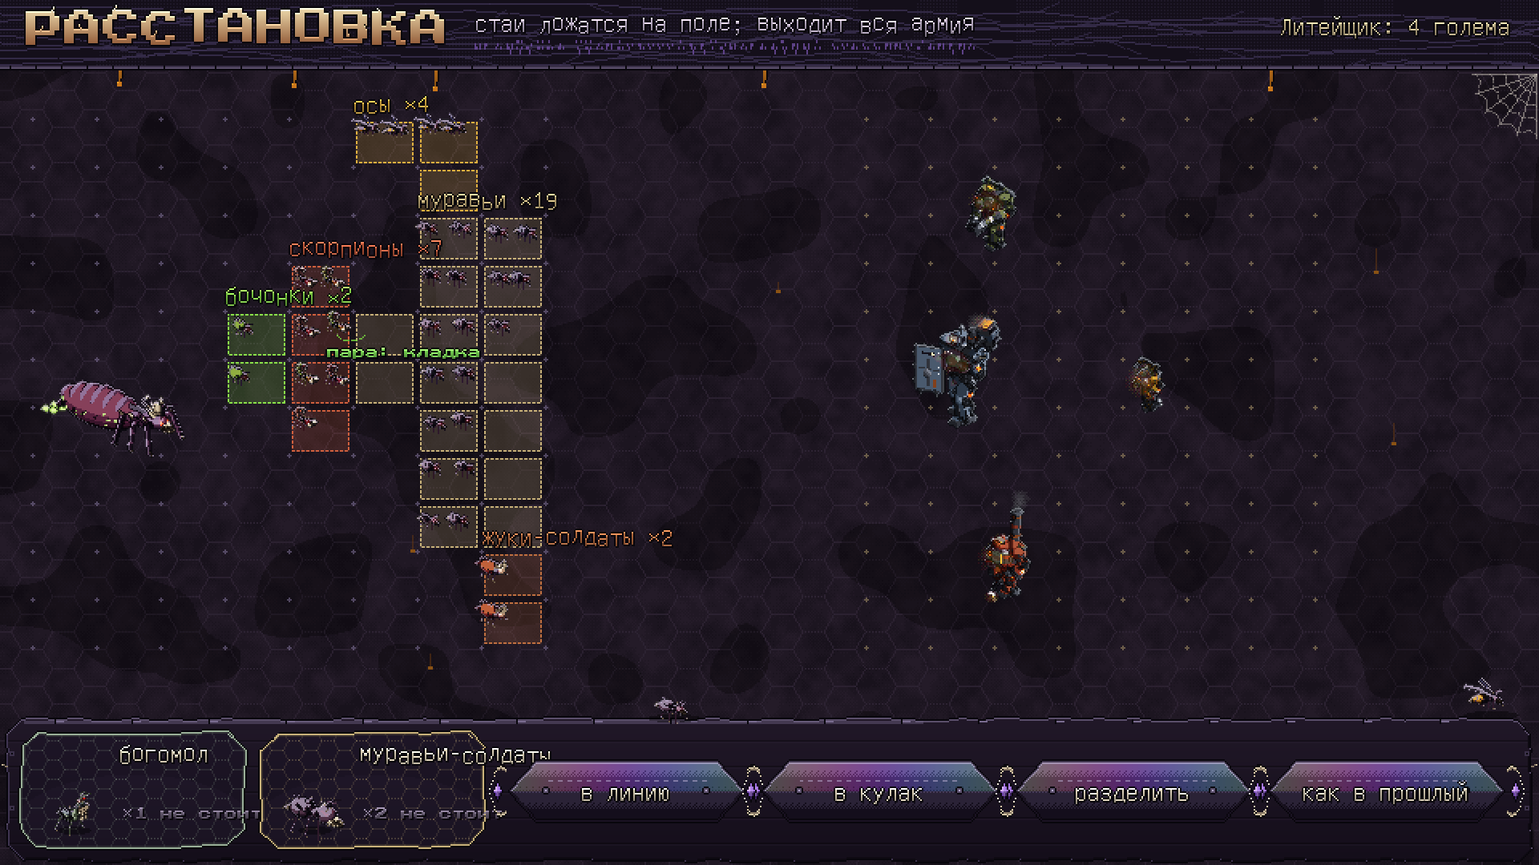
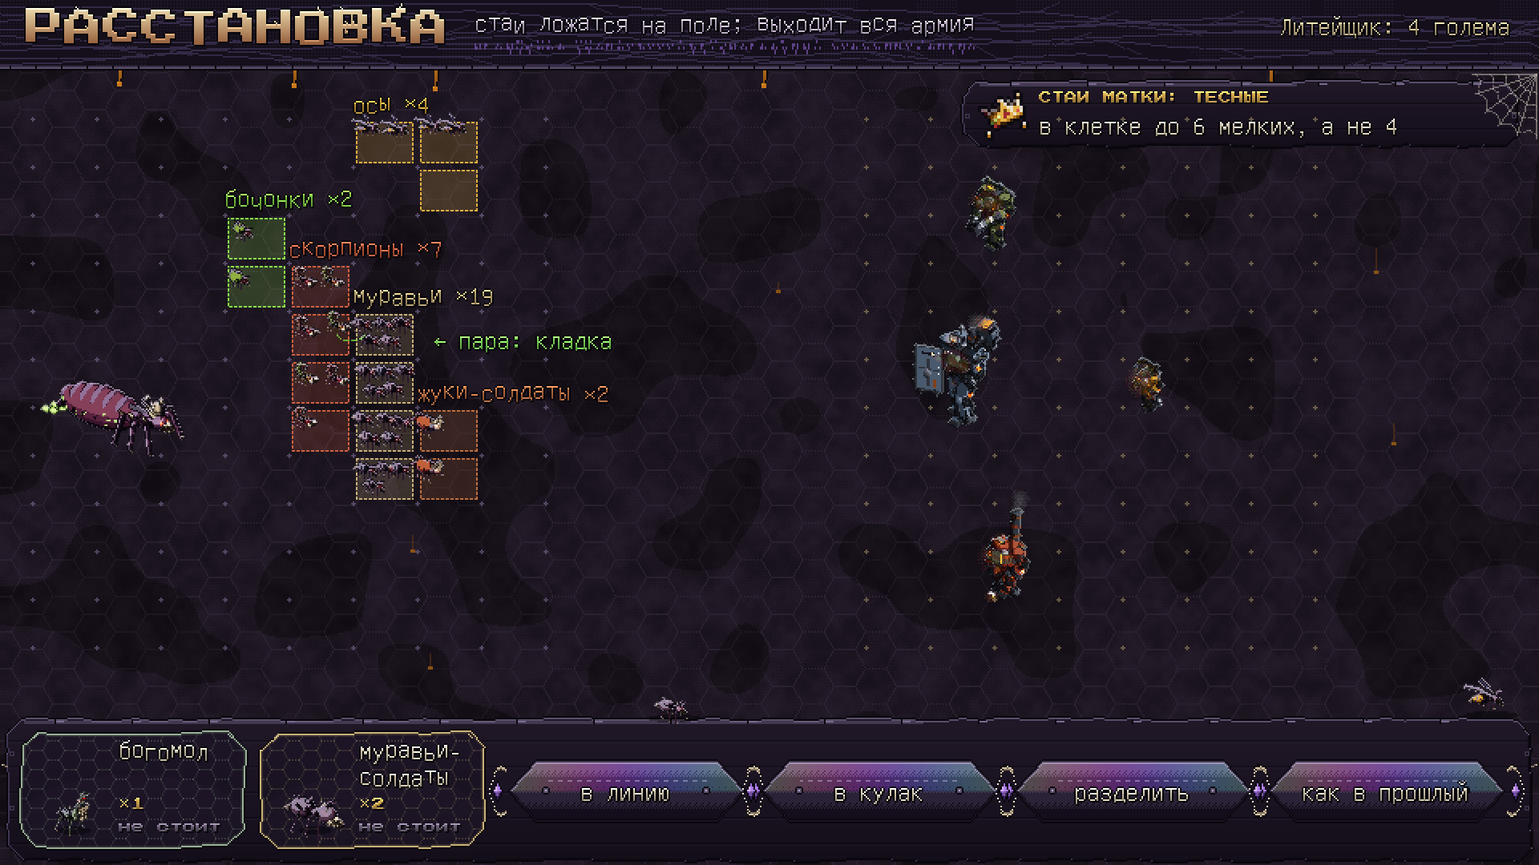
Рой: интерфейс боя, экран после боя, выбор лидера и развитие; тесные стаи Матки на расстановке
Claude-Session: https://claude.ai/code/session_01Bh6a99SKMjjKSinDnrtssC

diff --git a/tools/sprites/swarm_hud.py b/tools/sprites/swarm_hud.py
@@ -3,8 +3,11 @@ letters, the headings dripping and bristling, the swarm's own script under them)
 interface, silk and cobwebs, resin running off the plates, old engravings showing through.
 
     python3 tools/sprites/swarm_hud.py            -> out/brood.png, out/swarm_camp.png, out/swarm_evolution_screen.png,
-                                                     out/swarm_deploy.png, out/brood_finds.png, out/brood_pools.png
-    python3 tools/sprites/swarm_hud.py brood      -> one screen (brood, camp, evolution, deploy)
+                                                     out/swarm_deploy.png, out/brood_finds.png, out/brood_pools.png,
+                                                     out/swarm_flocks.png, out/swarm_battle_hud.png, out/swarm_aftermath.png,
+                                                     out/swarm_leader_pick.png, out/swarm_development_screen.png
+    python3 tools/sprites/swarm_hud.py brood      -> one screen (a key of SCREENS: brood, camp, evolution, deploy, finds,
+                                                     pools, flocks, battle, aftermath, leader, development)
 """
 import sys
 from functools import lru_cache
@@ -329,6 +332,10 @@ def deploy():
     UI.drips(sc, 60, 900, 44, "#b06818", n=5, seed=9)
     title(sc, "РАССТАНОВКА", "стаи ложатся на поле; выходит вся армия", seed=25)
     letters(sc, "Литейщик: 4 голема", 944, 8, "text", 16, col=(214, 196, 150), align="right")
+    UI.plate(sc, 600, 50, 948, 92)
+    icon(sc, "matka", 610, 56, 2)
+    letters(sc, "СТАИ МАТКИ: ТЕСНЫЕ", 648, 57, "title", 8, col=GOLD, outline=False)
+    letters(sc, "в клетке до 6 мелких, а не 4", 648, 70, "text", 16, col=INK)
     CW_, CH_, GX0, GY0 = SS.CW_, SS.CH_, SS.GX0, SS.GY0 + 4
     cols, rows = 21, 12
     for c in range(cols):
@@ -356,8 +363,12 @@ def deploy():
             for j in range(per):
                 if placed_n >= n:
                     break
-                x = GX0 + c * CW_ + 10 + (j % 2) * 18 + rnd.uniform(-3, 3)
-                y = GY0 + r * CH_ + 14 + (j // 2) * 10 + rnd.uniform(-2, 2)
+                if per > 4:                                         # a tight cell: three abreast
+                    x = GX0 + c * CW_ + 8 + (j % 3) * 12 + (j // 3) * 5 + rnd.uniform(-2, 2)
+                    y = GY0 + r * CH_ + 13 + (j // 3) * 11 + rnd.uniform(-1, 1)
+                else:
+                    x = GX0 + c * CW_ + 10 + (j % 2) * 18 + rnd.uniform(-3, 3)
+                    y = GY0 + r * CH_ + 14 + (j // 2) * 10 + rnd.uniform(-2, 2)
                 items.append((y, W.build(traits, rnd.uniform(-0.1, 0.1), "idle", soldier, k=SS.ZD, genes=W.genes_for(k_ * 50 + placed_n)), x))
                 placed_n += 1
     for (y, spr, x) in sorted(items, key=lambda t: t[0]):
@@ -376,15 +387,16 @@ def deploy():
         c = min(cells, key=lambda t: (t[1], t[0]))
         letters(sc, f"{name} ×{n}", GX0 + c[0] * CW_, GY0 + c[1] * CH_ - 18, "text", 16, col=tuple(int(v) for v in hexc(col)),
                 jitter=1, seed=k_)
-    letters(sc, "пара: кладка", GX0 + 4 * CW_ + 24, GY0 + 4 * CH_ + 22, "title", 8, col=(130, 230, 90))
+    letters(sc, "← пара: кладка", GX0 + 6 * CW_ + 10, GY0 + 4 * CH_ + 10, "text", 16, col=(130, 230, 90))
     UI.plate(sc, 4, HH - 92, WW - 4, HH - 2)
     for k_, (traits, soldier, name, n, cells, col, placed) in enumerate([fl for fl in SS.FLOCKS if not fl[6]]):
         x0 = 12 + k_ * 150
         UI.cell(sc, x0, HH - 84, x0 + 142, HH - 10, "normal", col=col)
         put(sc, W.build(traits, 0.0, "idle", soldier, k=1.1, genes=W.genes_for(90 + k_)), x0 + 34, HH - 22, 10)
-        for j, ln in enumerate(wrap(name, 76)):
-            letters(sc, ln, x0 + 62, HH - 78 + j * 17, "text", 16, col=INK, jitter=1, seed=k_ + j)
-        letters(sc, f"×{n} не стоит", x0 + 64, HH - 36, "title", 8, col=PALE, outline=False)
+        for j, ln in enumerate(wrap(name.replace("-", "- "), 76)):
+            letters(sc, ln.replace("- ", "-"), x0 + 62, HH - 80 + j * 16, "text", 16, col=INK, jitter=1, seed=k_ + j)
+        letters(sc, f"×{n}", x0 + 62, HH - 42, "title", 8, col=GOLD, outline=False)
+        letters(sc, "не стоит", x0 + 62, HH - 28, "title", 8, col=PALE, outline=False)
     for k_, t in enumerate(("в линию", "в кулак", "разделить", "как в прошлый")):
         x0 = 316 + k_ * 158
         UI.button(sc, x0, HH - 66, x0 + 150, HH - 26, "chitin")
@@ -603,8 +615,215 @@ def flocks():
     print("swarm_flocks.png", img.size)
 
 
+# ---------------------------------------------------------------- the battle itself, with the swarm's interface over it
+def battle_hud():
+    import battle as BT
+    sc, count, ng = BT.build("Матка")
+    UI.WOBBLE[0] = 1.0
+    # top: a thin wing with the turn, the swarm and the enemy, the speed
+    UI.wing(sc, 0, 0, WW, 34)
+    letters(sc, "ХОД 5", 400, 4, "title", 24, col=(236, 216, 170), col2=(150, 96, 60), jitter=1, drips=4, hairs=5, align="center")
+    letters(sc, f"рой {count - 1}", 16, 5, "title", 16, col=(170, 240, 120), col2=(70, 150, 50))
+    letters(sc, "съедено 14", 16, 22, "text", 16, col=MUTED)
+    letters(sc, f"Литейщик · {ng} големов", 700, 6, "text", 16, col=(214, 196, 150), align="right")
+    for k_, t in enumerate(("II", "×1", "×2", "×4")):
+        x0 = 716 + k_ * 58
+        UI.button(sc, x0, 6, x0 + 52, 28, "amber" if t == "×2" else "chitin")
+        letters(sc, t, x0 + 26, 9, "text", 16, col=DARK if t == "×2" else INK, outline=t != "×2", align="center")
+    # bottom left: the leader — health, abilities, their cooldowns; the leader itself sits on the plate's edge
+    UI.plate(sc, 4, 448, 324, 536, antennae=True)
+    put(sc, leader("Матка", "idle", 0.74), 62, 530, 30)
+    letters(sc, "МАТКА", 124, 456, "title", 16, col=GOLD, jitter=1, seed=3)
+    UI.meter(sc, 124, 478, 316, 10, 16, 13, "#c04a3a")
+    abil = [("clutch", "1"), ("larva", ""), ("feed", "")]
+    for k_, (key, cd) in enumerate(abil):
+        x0 = 124 + k_ * 66
+        UI.cell(sc, x0, 494, x0 + 60, 532, "hi" if k_ == 0 else "normal")
+        icon(sc, key, x0 + 4, 497, 2)
+        if cd:
+            letters(sc, cd, x0 + 50, 512, "title", 8, col=(255, 200, 120), align="center")
+    # bottom: the flocks — kind, alive of all, a state if any
+    import swarm_status as ST
+    UI.plate(sc, 330, 448, 956, 536)
+    flocks_ = [((), "муравьи", 16, 23, None), (("stinger",), "скорпионы", 6, 7, "poison"), (("horn",), "жуки", 2, 2, None),
+               (("acid",), "бочонки", 1, 2, None), (("wings",), "осы", 3, 4, "fear"), (("spitter",), "пауки", 2, 2, None)]
+    for k_, (tr, name, alive, tot, st) in enumerate(flocks_):
+        x0 = 338 + k_ * 102
+        UI.cell(sc, x0, 456, x0 + 96, 530, "new" if alive == tot else "normal")
+        letters(sc, name, x0 + 8, 459, "text", 16, col=INK, jitter=1, seed=k_)
+        icon(sc, tr[0] if tr else "ant", x0 + 6, 476, 2)
+        letters(sc, f"{alive}/{tot}", x0 + 44, 488, "title", 8, col=GOLD if alive == tot else (255, 150, 120), outline=False)
+        UI.meter(sc, x0 + 8, 514, x0 + 88, 7, min(tot, 10), round(min(tot, 10) * alive / tot), "#8a6aa8")
+        if st:
+            ST.glyph(sc, st, x0 + 84, 484)
+    img = sc.image(S)
+    UI.WOBBLE[0] = 0.0
+    img.save(out("swarm_battle_hud.png"))
+    print("swarm_battle_hud.png", img.size)
+
+
+# ---------------------------------------------------------------- after the battle: the battle changes the breed
+def aftermath():
+    import brood as B
+    import swarm_effects as E
+    sc = frame_screen(37)
+    UI.wing(sc, 0, 0, WW, 44)
+    UI.drips(sc, 60, 900, 44, "#b06818", n=6, seed=17)
+    title(sc, "ПОБЕДА", "бой меняет породу", seed=33)
+    # losses
+    UI.plate(sc, 12, 52, 300, 446, antennae=True)
+    heading(sc, "ПОТЕРИ", 26, 64, seed=6)
+    for j in range(9):
+        put(sc, E.lit(bug(((), ("stinger",), ("wings",))[j % 3], "idle", 1.25, 160 + j), (26, 18, 16), 0.7), 56 + (j % 3) * 76 + (j // 3) * 14, 132 + (j // 3) * 34, 9)
+    letters(sc, "погибло", 26, 240, "text", 16, col=MUTED)
+    letters(sc, "23", 26, 258, "title", 24, col=(255, 140, 110), col2=(170, 50, 40), jitter=1, drips=3)
+    letters(sc, "съедено врагов", 26, 300, "text", 16, col=MUTED)
+    letters(sc, "14", 26, 318, "title", 24, col=(170, 240, 120), col2=(70, 150, 50), jitter=1)
+    icon(sc, "biomass", 90, 316, 2)
+    letters(sc, "+14 биомассы", 130, 326, "text", 16, col=BIO)
+    scribble(sc, 26, 380, 250, seed=51)
+    letters(sc, "погибшие не вернутся", 26, 400, "text", 16, col=PALE)
+    # what the battle gave: the leader's own gift
+    UI.plate(sc, 310, 52, 652, 446, antennae=True)
+    UI.engrave(sc, leader("Матка", "idle", 1.6), 560, 470, col="#2a2234", k=0.9)
+    heading(sc, "ДАР МАТКИ", 324, 64, seed=7)
+    letters(sc, "личинки, дожившие до конца боя,", 324, 88, "text", 16, col=MUTED)
+    letters(sc, "уходят в выводок", 324, 106, "text", 16, col=MUTED)
+    for j, dx in enumerate((380, 440, 500)):
+        put(sc, larva("idle", 1.5), dx, 196, 12)
+    icon(sc, "stinger", 560, 168, 2)
+    for j, ln in enumerate(("рождаются с жалом —", "оно убивало больше всех")):
+        letters(sc, ln, 324, 220 + j * 18, "text", 16, col=INK)
+    UI.cell(sc, 320, 268, 642, 340, "mut")
+    letters(sc, "Сердце роя: 5 яиц у Матки", 334, 278, "text", 16, col=GOLD)
+    letters(sc, "вылупились — бились — живы", 334, 296, "text", 16, col=INK)
+    put(sc, clutch(1.0), 580, 330, 0)
+    UI.cell(sc, 320, 352, 642, 436, "normal")
+    letters(sc, "по чертам: кто убивал", 334, 362, "text", 16, col=MUTED)
+    for i, (name, kills, key) in enumerate(B.SELECTION):
+        x, y = 334 + i * 76, 384
+        icon(sc, key, x, y)
+        letters(sc, str(kills), x + 20, y + 4, "title", 8, col=PALE, outline=False)
+        UI.meter(sc, x, y + 24, x + 64, 6, 8, round(8 * kills / 23), "#c04a3a" if i == 0 else "#8a6aa8")
+    # pairs at the seams of the flocks, and the find
+    UI.plate(sc, 662, 52, 948, 446, antennae=True)
+    heading(sc, "ПАРЫ", 676, 64, seed=8)
+    letters(sc, "стыки стай: 3 пары", 676, 88, "text", 16, col=MUTED)
+    pairs = [(((), ("stinger",)), 170), ((("horn",), ("wings",)), 230), ((("acid",), ()), 290)]
+    for (a_, b_), y in pairs:
+        put(sc, bug(a_, "idle", 1.2, y), 712, y, 10)
+        put(sc, bug(b_, "idle", 1.2, y + 1), 800, y, 10)
+        UI.silk(sc, (724, y - 16), (790, y - 16), sag=8, col="#f0c040")
+        letters(sc, "→", 846, y - 22, "text", 16, col=MUTED)
+        put(sc, clutch(1.6), 896, y, 8)
+    UI.cell(sc, 670, 316, 940, 436, "find")
+    letters(sc, "находка", 684, 326, "title", 8, col=PALE, outline=False)
+    letters(sc, "Взросление", 684, 340, "text", 16, col=GOLD, jitter=1)
+    for j, ln in enumerate(("рабочая убила больше", "всех — выйдет солдатом")):
+        letters(sc, ln, 684, 360 + j * 18, "text", 16, col=INK)
+    put(sc, bug(("ant", "stinger"), "idle", 1.1, 77, soldier=True), 900, 426, 10)
+    UI.button(sc, 690, 466, 948, 524, "amber")
+    letters(sc, "В ВЫВОДОК", 819, 486, "title", 16, col=DARK, col2=(90, 40, 10), outline=False, align="center", jitter=1)
+    letters(sc, "выжившие отдыхают, пары кладут яйца", 480, 480, "text", 16, col=MUTED, align="center")
+    scribble(sc, 380, 500, 200, seed=52)
+    UI.creature(sc, bug((), "idle", 1.0, 170), 250, 54)
+    UI.cobweb(sc, 2, 448, 30, quad=(1, 1))
+    img = sc.image(S)
+    UI.WOBBLE[0] = 0.0
+    img.save(out("swarm_aftermath.png"))
+    print("swarm_aftermath.png", img.size)
+
+
+# ---------------------------------------------------------------- choosing the leader at the start of the run
+def leaders_pick():
+    import swarm_leaders as SL
+    sc = frame_screen(41)
+    UI.wing(sc, 0, 0, WW, 44)
+    UI.drips(sc, 60, 900, 44, "#b06818", n=6, seed=18)
+    title(sc, "ЛИДЕР", "кто поведёт рой в этот поход", seed=35)
+    # start armies as in the concept (workers; soldiers), the flock rule, the key mutation of the leader's pool
+    data = [("Матка", "matka", "число и порода", "тесные стаи", "Наследница",
+             [((), 12), (("wings",), 3), (("stinger",), 3)], [((), 2), (("horn",), 1), (("carapace",), 1)]),
+            ("Разум улья", "razum", "пси мимо брони, захват", "одна мысль на стаю", "Ретранслятор",
+             [((), 9), (("firefly",), 3)], [((), 3), (("scythes",), 2), (("stinger",), 1)]),
+            ("Пожиратель", "pozh", "зверь растёт в бою", "свора", "Питательная суть",
+             [((), 15), (("jumper",), 3)], [((), 2)]),
+            ("Кукушка", "kuk", "рой растёт за счёт врага", "пёстрые стаи", "Королевская кладка",
+             [((), 15), (("stinger",), 3), (("acid",), 3)], [((), 3)])]
+    PW_ = 232
+    for k_, (name, ik, what, rule, key, army, soldiers) in enumerate(data):
+        x0 = 12 + k_ * (PW_ + 4)
+        UI.cell(sc, x0, 52, x0 + PW_, 452, "hi" if k_ == 0 else "normal")
+        spr = SL.build(name, "idle", 1.0)
+        kk = min(1.75, 172 / spr.w, 116 / spr.h)
+        put(sc, SL.build(name, "idle", kk), x0 + PW_ / 2 + 6, 180, 30)
+        icon(sc, ik, x0 + 12, 202, 2)
+        letters(sc, name, x0 + 50, 206, "text", 16, col=GOLD if k_ == 0 else INK, jitter=1, seed=k_)
+        letters(sc, what, x0 + 12, 236, "text", 16, col=INK)
+        letters(sc, "стаи:", x0 + 12, 264, "title", 8, col=PALE, outline=False)
+        letters(sc, rule, x0 + 54, 260, "text", 16, col=GOLD)
+        for r, (lab, row, sold, by) in enumerate((("рабочие:", army, False, 330), ("солдаты:", soldiers, True, 394))):
+            letters(sc, lab, x0 + 12, by - 46, "title", 8, col=PALE, outline=False)
+            for j, (tr, n) in enumerate(row):
+                b_ = bug(tr, "idle", 1.0, 180 + j + k_ * 5 + r * 20, soldier=sold)
+                cx = x0 + 32 + j * 72
+                put(sc, b_, cx, by, 8)
+                right = np.nonzero(b_.a.any(axis=0))[0].max()
+                letters(sc, f"×{n}", cx - b_.ox + right + 3, by - 6, "title", 8, col=INK)
+        letters(sc, "ключ:", x0 + 12, 422, "title", 8, col=PALE, outline=False)
+        letters(sc, key, x0 + 54, 418, "text", 16, col=(196, 160, 236))
+    UI.button(sc, 12, 470, 300, 520, "chitin")
+    letters(sc, "Назад", 156, 486, "title", 16, col=INK, align="center")
+    UI.button(sc, 690, 466, 948, 524, "amber")
+    letters(sc, "В ПОХОД", 819, 486, "title", 16, col=DARK, col2=(90, 40, 10), outline=False, align="center", jitter=1)
+    letters(sc, "у каждого лидера свой пул мутаций", 495, 480, "text", 16, col=MUTED, align="center")
+    scribble(sc, 400, 500, 190, seed=53)
+    UI.cobweb(sc, 958, 46, 34, quad=(-1, 1))
+    img = sc.image(S)
+    UI.WOBBLE[0] = 0.0
+    img.save(out("swarm_leader_pick.png"))
+    print("swarm_leader_pick.png", img.size)
+
+
+# ---------------------------------------------------------------- the leader grows: choose its development
+def development():
+    import swarm_leaders as SL
+    sc = frame_screen(47)
+    UI.wing(sc, 0, 0, WW, 44)
+    UI.drips(sc, 60, 900, 44, "#b06818", n=6, seed=19)
+    title(sc, "РАЗВИТИЕ", "Разум улья созрел: во что ему прорасти", seed=37)
+    UI.plate(sc, 12, 52, 300, 446, antennae=True)
+    heading(sc, "СЕЙЧАС", 26, 64, seed=9)
+    icon(sc, "razum", 26, 90, 2)
+    letters(sc, "Разум улья", 64, 94, "text", 16, col=INK, jitter=1, seed=4)
+    put(sc, SL.build("Разум улья", "idle", 2.1), 156, 276, 34)
+    for j, ln in enumerate(("Пси-удар на 3 клетки", "Захват раз в 6 ходов", "Помутнение на 2 клетки")):
+        letters(sc, ln, 26, 300 + j * 20, "text", 16, col=INK)
+    scribble(sc, 26, 370, 240, seed=61)
+    letters(sc, "слабость: хрупкий мозг", 26, 400, "text", 16, col=(200, 120, 110))
+    for j, (key, name, look) in enumerate(SL.DEV["Разум улья"]):
+        x0 = 312 + j * 214
+        UI.cell(sc, x0, 52, x0 + 206, 446, "hi" if j == 1 else "normal")
+        put(sc, SL.build("Разум улья", "idle", 1.9, dev=key), x0 + 103, 232, 30)
+        letters(sc, name, x0 + 14, 252, "text", 16, col=GOLD if j == 1 else INK, jitter=1, seed=j)
+        for k_, ln in enumerate(wrap(look, 180)):
+            letters(sc, ln, x0 + 14, 278 + k_ * 17, "text", 16, col=MUTED)
+    UI.button(sc, 12, 470, 300, 520, "chitin")
+    letters(sc, "Позже", 156, 486, "title", 16, col=INK, align="center")
+    UI.button(sc, 690, 466, 948, 524, "amber")
+    letters(sc, "ПРОРАСТИ", 819, 486, "title", 16, col=DARK, col2=(90, 40, 10), outline=False, align="center", jitter=1)
+    letters(sc, "развитие — навсегда, на весь поход", 495, 480, "text", 16, col=MUTED, align="center")
+    scribble(sc, 400, 500, 190, seed=62)
+    UI.creature(sc, bug((), "idle", 1.0, 190), 540, 54)
+    UI.cobweb(sc, 2, 448, 30, quad=(1, 1))
+    img = sc.image(S)
+    UI.WOBBLE[0] = 0.0
+    img.save(out("swarm_development_screen.png"))
+    print("swarm_development_screen.png", img.size)
+
+
 SCREENS = {"brood": brood, "camp": camp, "evolution": evolution, "deploy": deploy, "finds": finds, "pools": pools,
-           "flocks": flocks}
+           "flocks": flocks, "battle": battle_hud, "aftermath": aftermath, "leader": leaders_pick, "development": development}
 
 if __name__ == "__main__":
     arg = sys.argv[1] if len(sys.argv) > 1 else "all"

diff --git a/tools/sprites/swarm_screens.py b/tools/sprites/swarm_screens.py
@@ -177,10 +177,10 @@ def camp_screen():
 CW_, CH_, GX0, GY0 = 40, 30, 20, 70           # deployment grid: the swarm's zone on the left, the enemy on the right
 ZD = 0.62                                     # everyone at the same zoom: the true relative sizes
 FLOCKS = [  # (traits, soldier, name, count, cells (col, row) it covers, colour, placed)
-    ((), False, "муравьи", 19, [(c, r) for c in (6, 7) for r in range(2, 9)] + [(5, 4), (5, 5)], "#c9b27a", True),
+    ((), False, "муравьи", 19, [(5, 4), (5, 5), (5, 6), (5, 7)], "#c9b27a", True),      # Матка: tight flocks, 5 to a cell
     (("stinger",), False, "скорпионы", 7, [(4, 3), (4, 4), (4, 5), (4, 6)], "#d0603e", True),
-    (("horn",), True, "жуки-солдаты", 2, [(7, 9), (7, 10)], "#c07040", True),
-    (("acid",), False, "бочонки", 2, [(3, 4), (3, 5)], "#8ae04a", True),
+    (("horn",), True, "жуки-солдаты", 2, [(6, 6), (6, 7)], "#c07040", True),
+    (("acid",), False, "бочонки", 2, [(3, 2), (3, 3)], "#8ae04a", True),
     (("wings",), False, "осы", 4, [(5, 0), (6, 0), (6, 1)], "#e0b040", True),
     (("scythes",), False, "богомол", 1, [], "#9ab098", False),
     ((), True, "муравьи-солдаты", 2, [], "#c9b27a", False),

diff --git a/docs/CONCEPT.md b/docs/CONCEPT.md
@@ -809,6 +809,11 @@
 
 ![Расстановка стаями](images/swarm_deploy.png)
 
+В бою над полем — ход, размер роя и скорость, внизу — лидер со способностями и стаи: сколько живо
+и что на них висит.
+
+![Бой: интерфейс роя](images/swarm_battle_hud.png)
+
 #### Черты и формы
 
 **Первая (главная) черта задаёт форму тела и роль**, остальные добавляются деталями и дают ту же
@@ -1014,6 +1019,8 @@
 | Пожиратель | в одном звере, который растёт по ходу боя |
 | Кукушка | в чужих телах: рой растёт за счёт врага |
 
+![Выбор лидера роя](images/swarm_leader_pick.png)
+
 ##### Матка — число и порода
 
 Размер 6, здоровье 80, жвалы 1–6 +2 рубящий, броня 2, хитин, скорость 1.
@@ -1175,6 +1182,9 @@
 - **Бой меняет породу.** Каждый лидер по-своему превращает бой в материал для породы: у Матки
   выжившие личинки уходят в выводок, у Кукушки — дети хозяев химерами, у Пожирателя съеденное
   становится биомассой, у Разума улья пси-мутации выпадают потомкам тех, кто стоял рядом с ним.
+  Всё это видно на экране после боя.
+
+  ![После боя](images/swarm_aftermath.png)
 - **Эволюция формы.** Улучшение сразу для всех особей одной формы («Осы: жало пробивает
   броню»). Одно решение действует на десятки особей — никакого поштучного микроменеджмента.
   Три эволюции на форму — в разделе «Эволюция форм».
@@ -1195,6 +1205,8 @@
   Одна мутация в пуле — **ключевая**: выпадает редко и меняет план боя. Пулы — в разделе каждого лидера.
 - **Развитие лидера сдвигает пул**: мутации ветки, которую усиливает выбранное развитие, выпадают
   чаще, так первые решения задают направление похода.
+
+  ![Развитие лидера](images/swarm_development_screen.png)
 - Мутации всегда случайны. В лагере выпадают три случайных варианта, и одну особь можно изменить
   одним из них (см. «Выводок»). За поход виден не весь пул, поэтому каждый поход собирается из разного.
 
